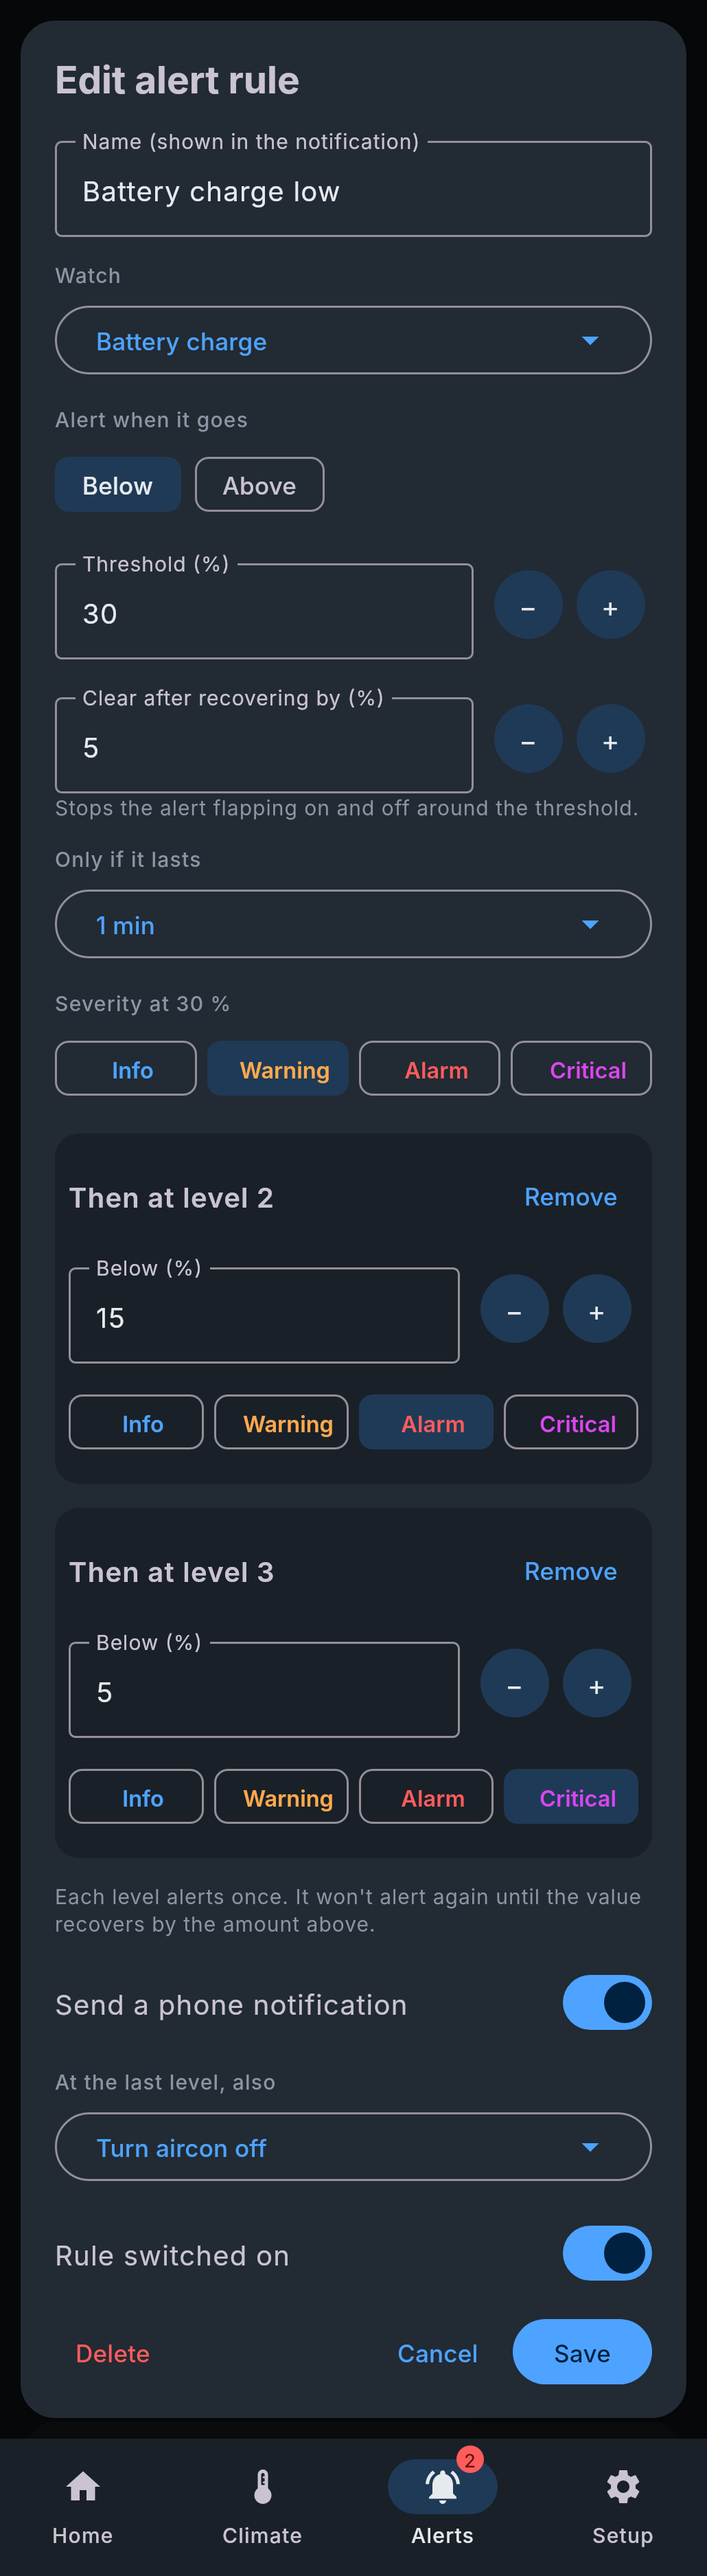
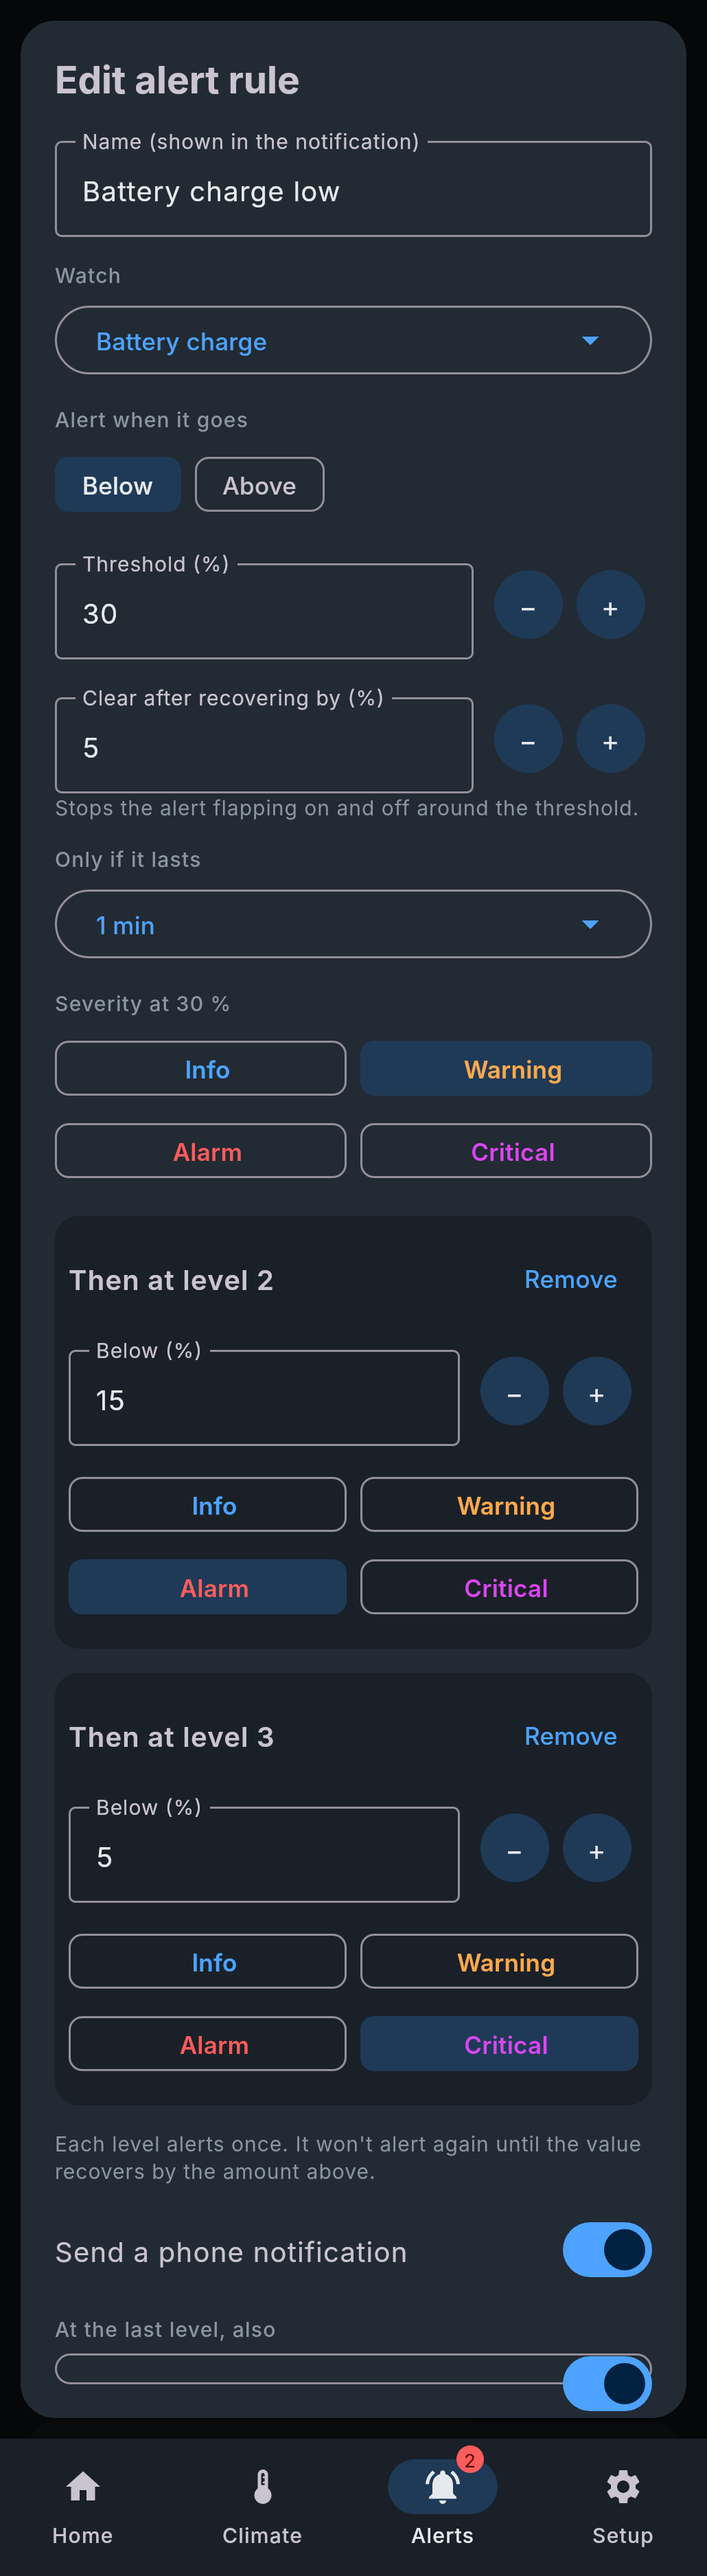
Severity chips in two rows so "Warning" never gets cut off
Claude-Session: https://claude.ai/code/session_01PBSbXA5TzqZj6m8nPEAV3e

diff --git a/android/app/src/main/java/com/caravan/monitor/ui/RuleEditorContent.kt b/android/app/src/main/java/com/caravan/monitor/ui/RuleEditorContent.kt
@@ -222,17 +222,21 @@ private fun defaultThreshold(key: String) = when (key) {
 @OptIn(ExperimentalMaterial3Api::class)
 @Composable
 private fun SeverityChips(sev: Int, onPick: (Int) -> Unit) {
-    // Four equal chips so "Critical" still fits inside a level card; the label carries the colour.
-    Row(Modifier.fillMaxWidth(), horizontalArrangement = Arrangement.spacedBy(6.dp)) {
-        listOf(Severity.INFO, Severity.WARN, Severity.ALARM, Severity.CRIT).forEach { s ->
-            FilterChip(
-                selected = sev == s, onClick = { onPick(s) }, modifier = Modifier.weight(1f),
-                label = {
-                    Text(Severity.label(s), maxLines = 1, color = sevColor(s), fontWeight = FontWeight.SemiBold,
-                        fontSize = 13.sp, letterSpacing = 0.sp,
-                        textAlign = TextAlign.Center, modifier = Modifier.fillMaxWidth())
-                },
-            )
+    // Two rows of two so every label shows in full, even with large phone text sizes.
+    val all = listOf(Severity.INFO, Severity.WARN, Severity.ALARM, Severity.CRIT)
+    Column(verticalArrangement = Arrangement.spacedBy(0.dp)) {
+        all.chunked(2).forEach { pair ->
+            Row(Modifier.fillMaxWidth(), horizontalArrangement = Arrangement.spacedBy(8.dp)) {
+                pair.forEach { s ->
+                    FilterChip(
+                        selected = sev == s, onClick = { onPick(s) }, modifier = Modifier.weight(1f),
+                        label = {
+                            Text(Severity.label(s), maxLines = 1, softWrap = false, color = sevColor(s),
+                                fontWeight = FontWeight.SemiBold, textAlign = TextAlign.Center, modifier = Modifier.fillMaxWidth())
+                        },
+                    )
+                }
+            }
         }
     }
 }

diff --git a/android/simulator/index.html b/android/simulator/index.html
@@ -126,8 +126,8 @@ input[type=range] { width: 100%; accent-color: var(--primary); }
 .pump .pic { width: 22px; height: 22px; fill: currentColor; margin-right: 8px; flex: none; }
 .level { background: var(--card); border-radius: 14px; padding: 12px 10px; display: flex; flex-direction: column; gap: 10px; }
 .level .head { display: flex; align-items: center; font-weight: 600; }
-.sevchips { display: grid; grid-template-columns: repeat(4, 1fr); gap: 6px; }
-.sevchips .chip { padding: 6px 2px; font-weight: 600; text-align: center; font-size: 13px; }
+.sevchips { display: grid; grid-template-columns: repeat(2, 1fr); gap: 6px 8px; }  /* 2 x 2 so labels never clip */
+.sevchips .chip { padding: 6px 4px; font-weight: 600; text-align: center; font-size: 14px; white-space: nowrap; }
 .lverr { color: var(--alarm); font-size: 12px; margin-top: 4px; }
 .toast.crit { box-shadow: 0 0 0 2px var(--crit), 0 10px 30px rgba(0,0,0,.5); }
 .temps { display: grid; grid-template-columns: repeat(3, 1fr); }
